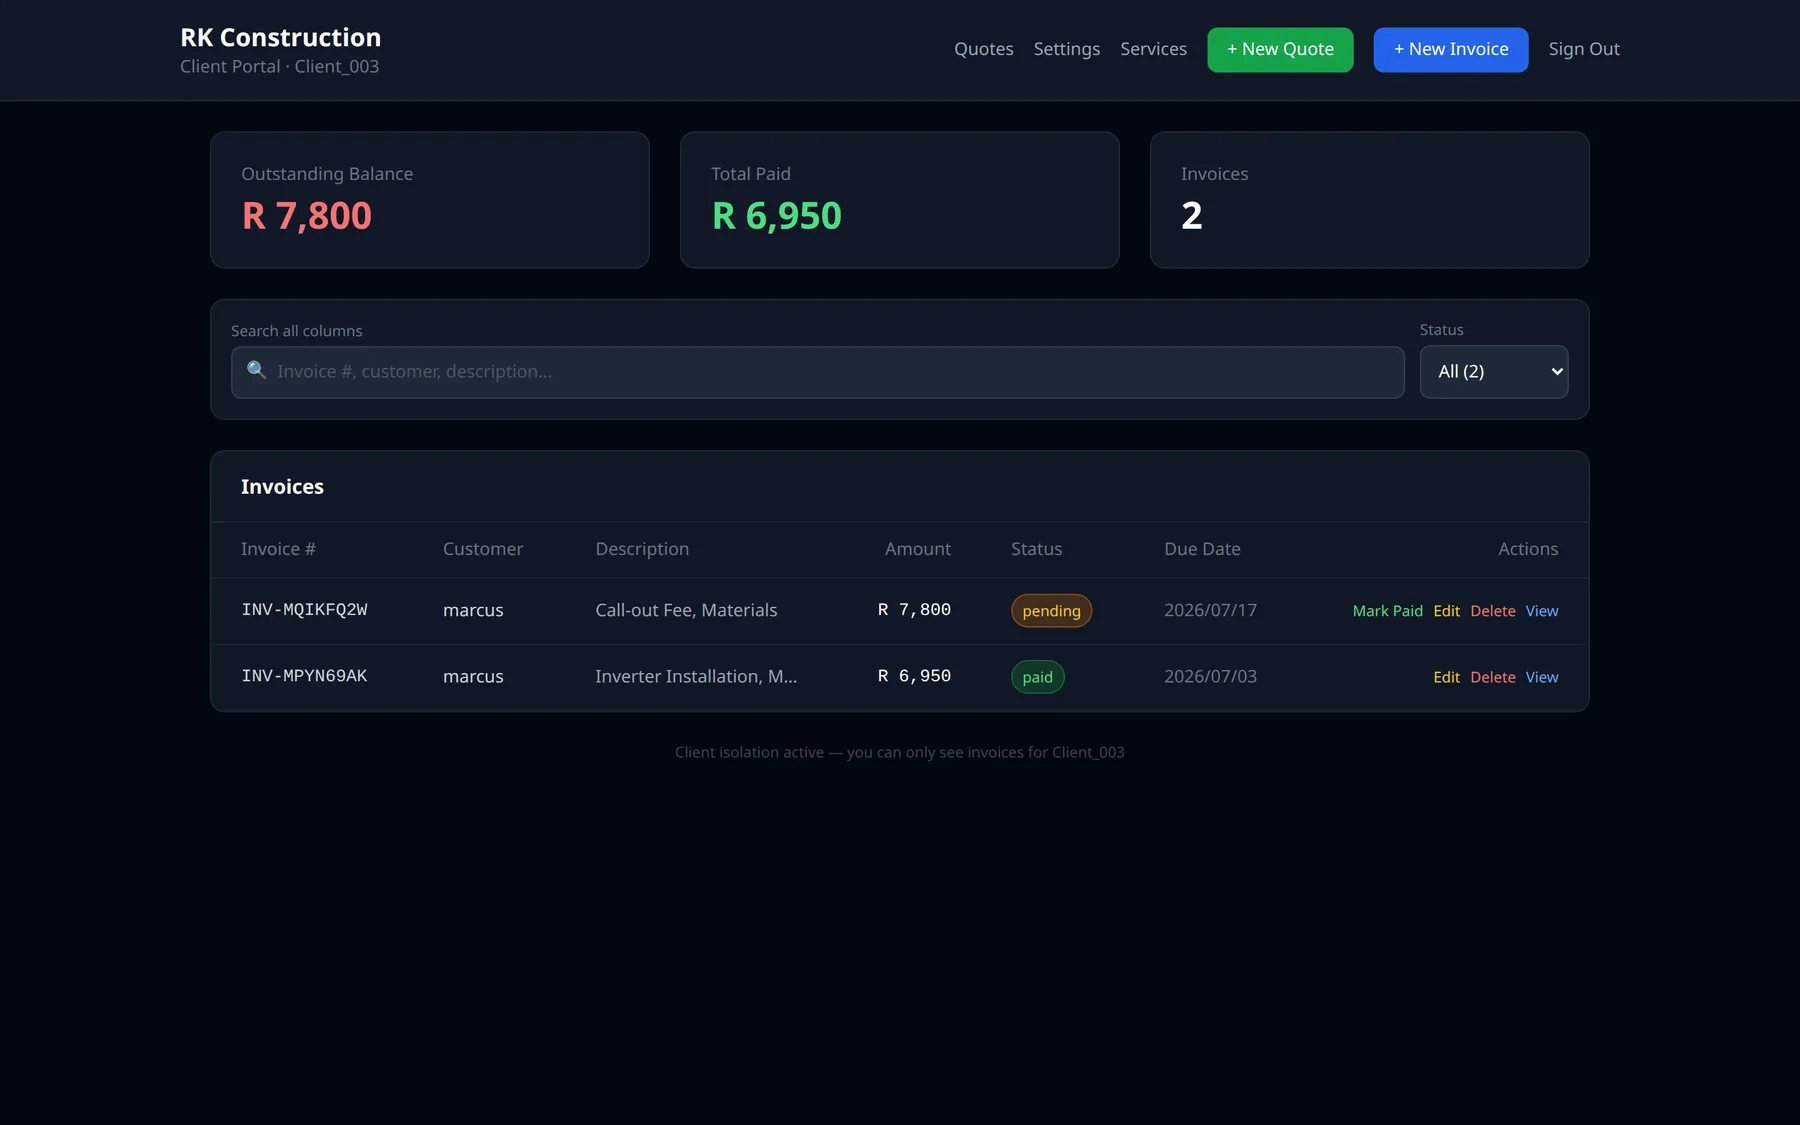
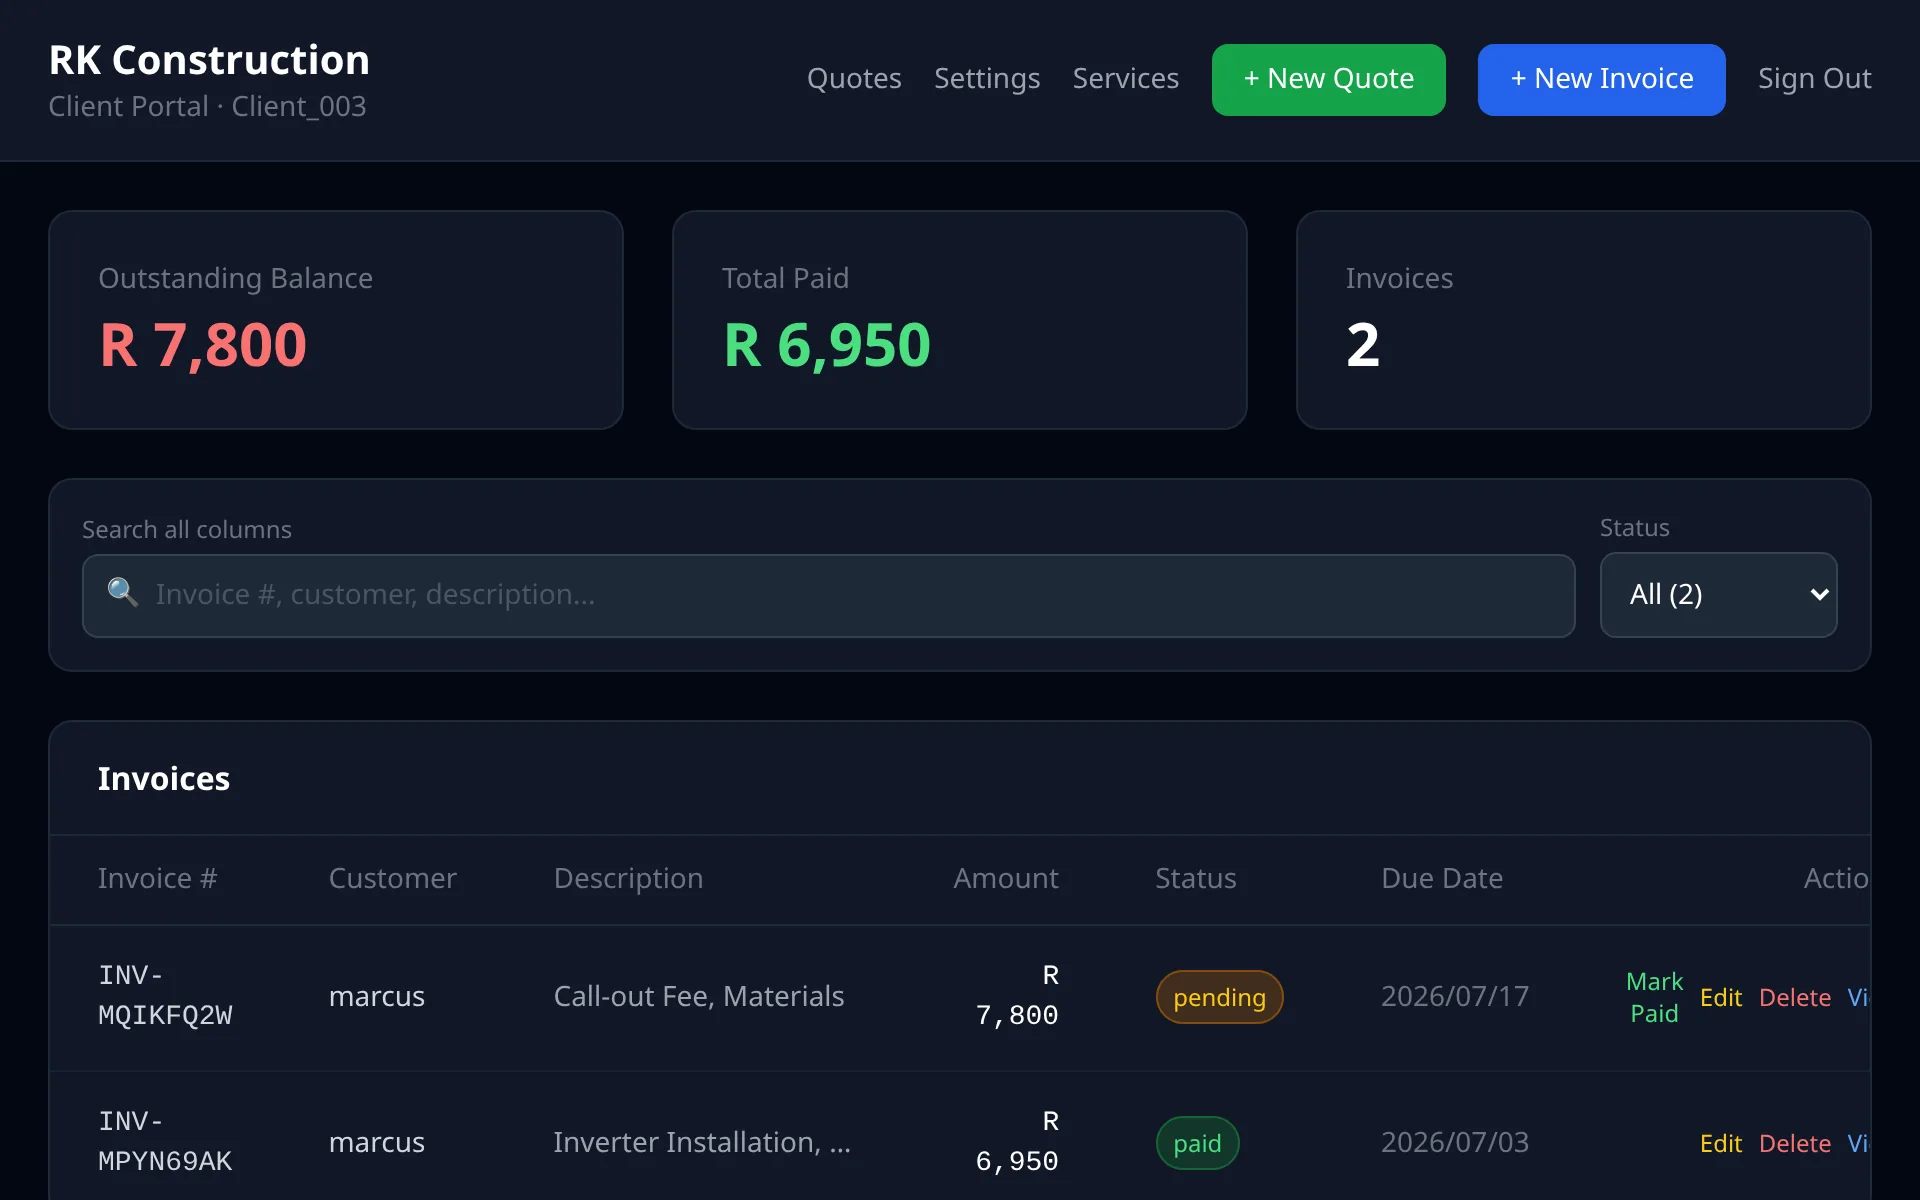
Tools section: legible screenshots
The dashboard screenshots were rendered at 502px wide, so a full app UI was
squeezed 3x and the text turned to mush - a 14px label landed at ~5px on
screen. Two changes:

- Re-captured the three apps at a 960px layout so the UI elements are
  proportionally much larger in frame (captured 1920x1200 at DPR 2).
- The three tool cards now span the grid at max-width 900px and render the
  images at ~850px, close to 1:1. The two secondary cards stay two-up.

Text in the screenshots is now readable at the size visitors see.

diff --git a/index.html b/index.html
@@ -241,7 +241,8 @@ nav .nav-cta{font-size:0.8125rem!important;padding:0.5rem 1.25rem;background:var
 .dash-card .dash-info h3{font-size:1.125rem;margin-bottom:0.625rem}
 .dash-card .dash-info ul{list-style:none;display:flex;flex-wrap:wrap;gap:0.5rem}
 .dash-card .dash-info ul li{font-size:0.8125rem;color:var(--text-muted);background:var(--bg-elevated);padding:0.375rem 0.875rem;border-radius:100px;border:1px solid var(--border-subtle)}
-.dash-card:last-child{grid-column:1/-1;max-width:700px;margin:0 auto;width:100%}
+.dash-card:nth-child(-n+3){grid-column:1/-1;max-width:900px;margin:0 auto;width:100%}
+.dash-card:nth-child(3){margin-bottom:0.5rem}
 .tech-badges{display:flex;justify-content:center;gap:0.75rem;flex-wrap:wrap}
 .tech-badge{padding:0.5rem 1.25rem;background:var(--bg);border:1px solid var(--border-strong);border-radius:100px;font-size:0.8125rem;color:var(--accent);font-weight:600}
 @media(max-width:768px){.dash-grid{grid-template-columns:1fr}}
@@ -424,7 +425,7 @@ footer p{font-size:0.8125rem;color:var(--text-muted)}
       <div class="dash-card">
         <div class="frame">
           <div class="mac-dots"><span></span><span></span><span></span></div>
-          <img src="assets/clienthub-dashboard.webp" alt="ClientHub - Client CRM Dashboard" loading="lazy" width="1800" height="1125">
+          <img src="assets/clienthub-dashboard.webp" alt="ClientHub - Client CRM Dashboard" loading="lazy" width="1920" height="1200">
         </div>
         <div class="dash-info">
           <h3>ClientHub — CRM Dashboard</h3>
@@ -439,7 +440,7 @@ footer p{font-size:0.8125rem;color:var(--text-muted)}
       <div class="dash-card">
         <div class="frame">
           <div class="mac-dots"><span></span><span></span><span></span></div>
-          <img src="assets/stock-dashboard.webp" alt="Stock Management Dashboard" loading="lazy" width="1800" height="1125">
+          <img src="assets/stock-dashboard.webp" alt="Stock Management Dashboard" loading="lazy" width="1920" height="1200">
         </div>
         <div class="dash-info">
           <h3>Stock Management — Inventory System</h3>
@@ -454,7 +455,7 @@ footer p{font-size:0.8125rem;color:var(--text-muted)}
       <div class="dash-card">
         <div class="frame">
           <div class="mac-dots"><span></span><span></span><span></span></div>
-          <img src="assets/invoice-dashboard.webp" alt="Invoice Dashboard" loading="lazy" width="1800" height="1125">
+          <img src="assets/invoice-dashboard.webp" alt="Invoice Dashboard" loading="lazy" width="1920" height="1200">
         </div>
         <div class="dash-info">
           <h3>Invoice Dashboard — Client Portal</h3>
